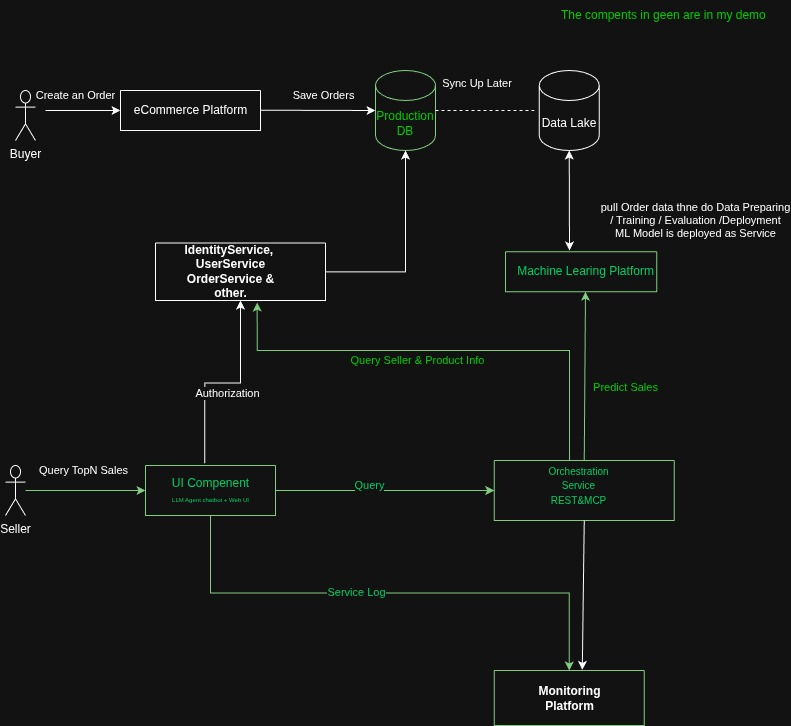
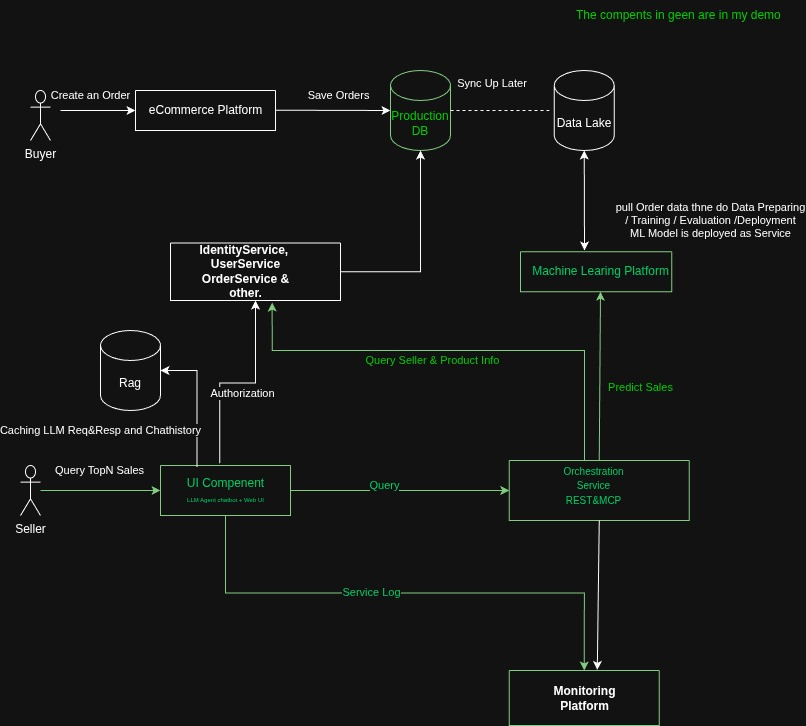
README: update hld diagram

diff --git a/README.md b/README.md
@@ -106,9 +106,9 @@ Out of Scope: The overarching QuickBooks Commerce platform and any unrelated fea
 
 ---
 
-## B. QuickBooks Commerce predication System High Level Architecture
+## B. QuickBooks Commerce Predication Platform High Level Design.
 
-### B.1 System Components
+### B.1 High Level Architecture
 
 <img src="documents/Predication-Page-1.jpg" alt="Description" width="960"/>
 
